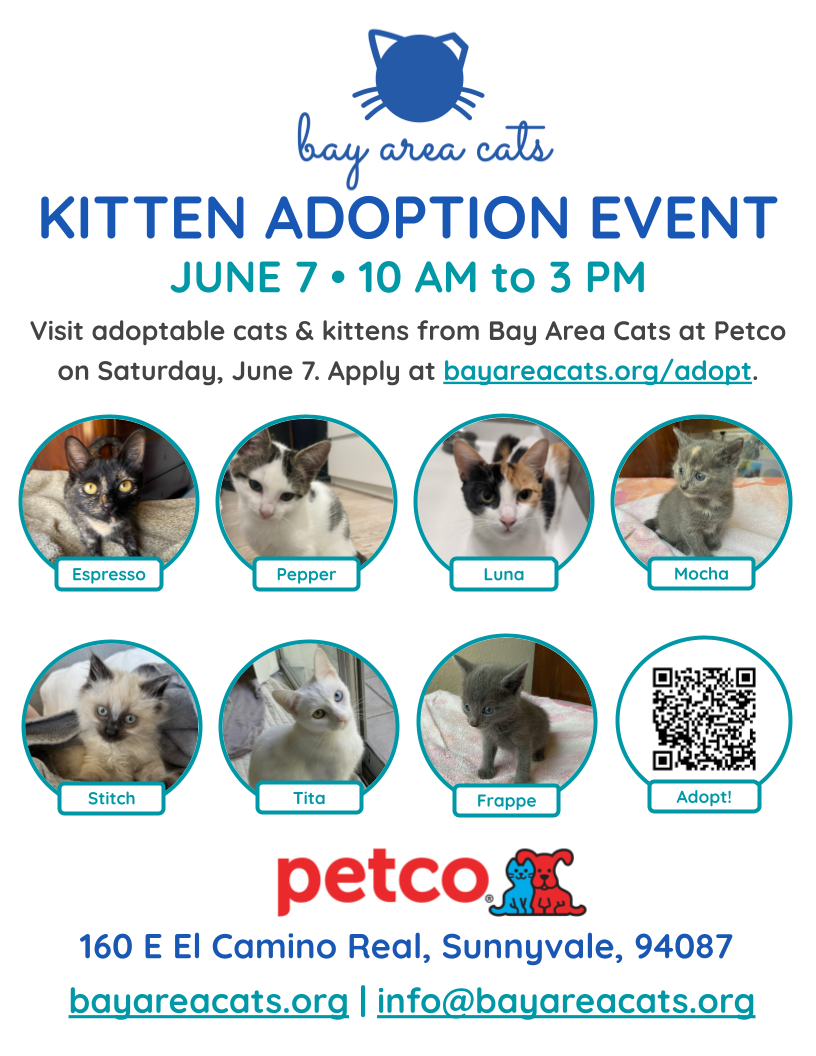
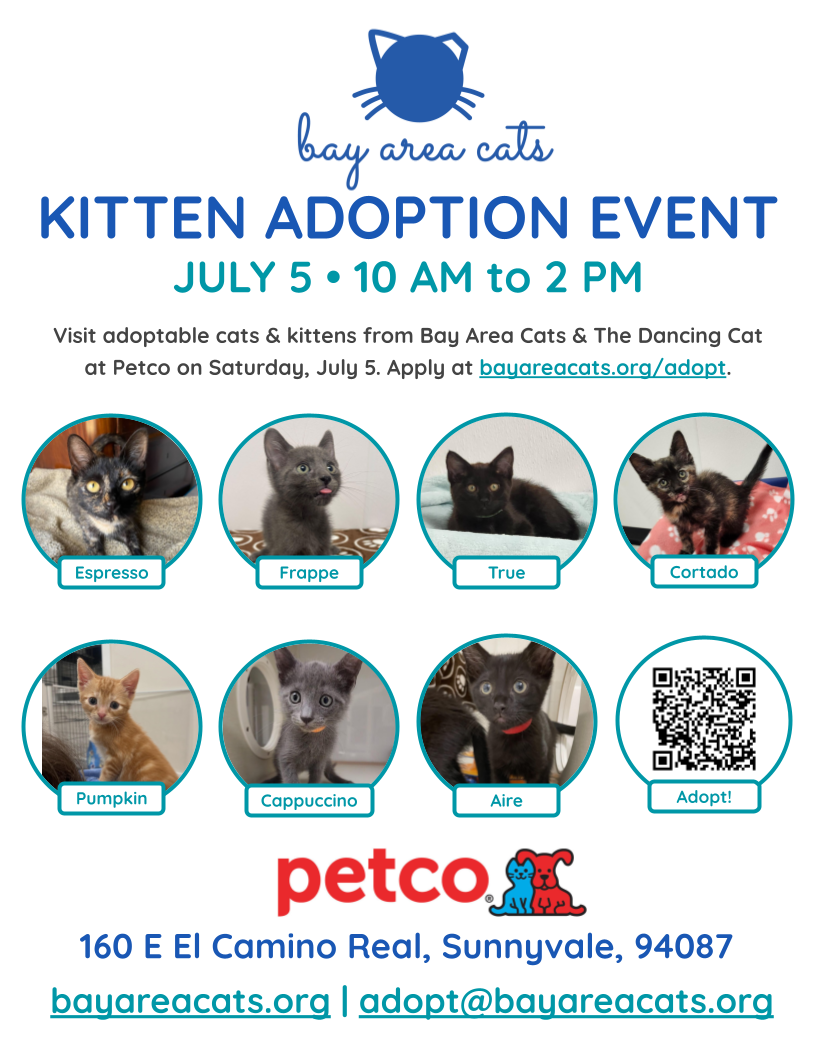
Update flyer

diff --git a/trapping.html b/trapping.html
@@ -200,7 +200,7 @@ layout: default
         <div id="trap-rentals">
             <section>
                 <h3>Renting traps</h3>
-                <p>Bay Area Cats lends traps in Santa Clara County using this <a href="/traps">form</a>. Both <a href="https://goo.gl/maps/tKttm43ButjXKU3p8">SVACA</a> in Santa Clara and <a href="https://goo.gl/maps/PZMrz9krVuB1XqoM9">SJACC</a> in San Jose have a trap rental program for cats in their jurisdiction. For SVACA, call dispatch to inquire about trap rentals. For SJACC, walk into the main lobby to ask.</p>
+                <p>Bay Area Cats lends traps in Sunnyvale using this <a href="/traps">form</a>. Both <a href="https://goo.gl/maps/tKttm43ButjXKU3p8">SVACA</a> in Santa Clara and <a href="https://goo.gl/maps/PZMrz9krVuB1XqoM9">SJACC</a> in San Jose have a trap rental program for cats in their jurisdiction. For SVACA, call dispatch to inquire about trap rentals. For SJACC, walk into the main lobby to ask.</p>
                     <ul>
                         <li><a target="_blank" href="https://www.thedancingcat.org">The Dancing Cat</a> • <a target="_blank" href="mailto:info@thedancingcat.org">info@thedancingcat.org</a></li>
                         <li><a target="_blank" href="https://www.13thstcats.org/info/display?PageID=13281">13th Street Cat Rescue</a> • 408-566-3637 • <a target="_blank" href="mailto:tnr@13thstcats.org">tnr@13thstcats.org</a></li>

diff --git a/adoptions.html b/adoptions.html
@@ -24,11 +24,11 @@ layout: default
           Stay tuned, soon you will be able to visit kitties at the Adoption Center every day —
           <a href="https://bayareacats.org/donate" target="_blank">donate</a> to make this a reality!
         </p>
-        <p><strong>Join us on July 5 from 11 AM to 2 PM at Sunnyvale Petco and take home a new family member!</strong></p>
+        <p><strong>Join us on July 5 from 10 AM to 2 PM at Sunnyvale Petco and take home a new family member! Special guests from <a href="https://thedancingcat.org">The Dancing Cat</a> will be in attendance from 11 AM to 1 PM!</strong></p>
       </div>
 
       <!-- Image below, left-aligned -->
-<!--         <div style="margin-top: 20px;">
+        <div style="margin-top: 20px;">
           <a href="/images/adoption-flyer.png" target="_blank">
             <img src="/images/adoption-flyer.png" alt="Adoption Event Flyer"
                  style="max-width: 200px; border: 1px solid #ccc; border-radius: 8px; box-shadow: 0 2px 6px rgba(0,0,0,0.2); cursor: pointer;">
@@ -36,7 +36,7 @@ layout: default
           <div style="text-align: left;">
             <p style="font-size: 0.85em; margin-top: 4px;">Click to view larger</p>
           </div>
-        </div> -->
+        </div>
 
     </section>
   </div>
